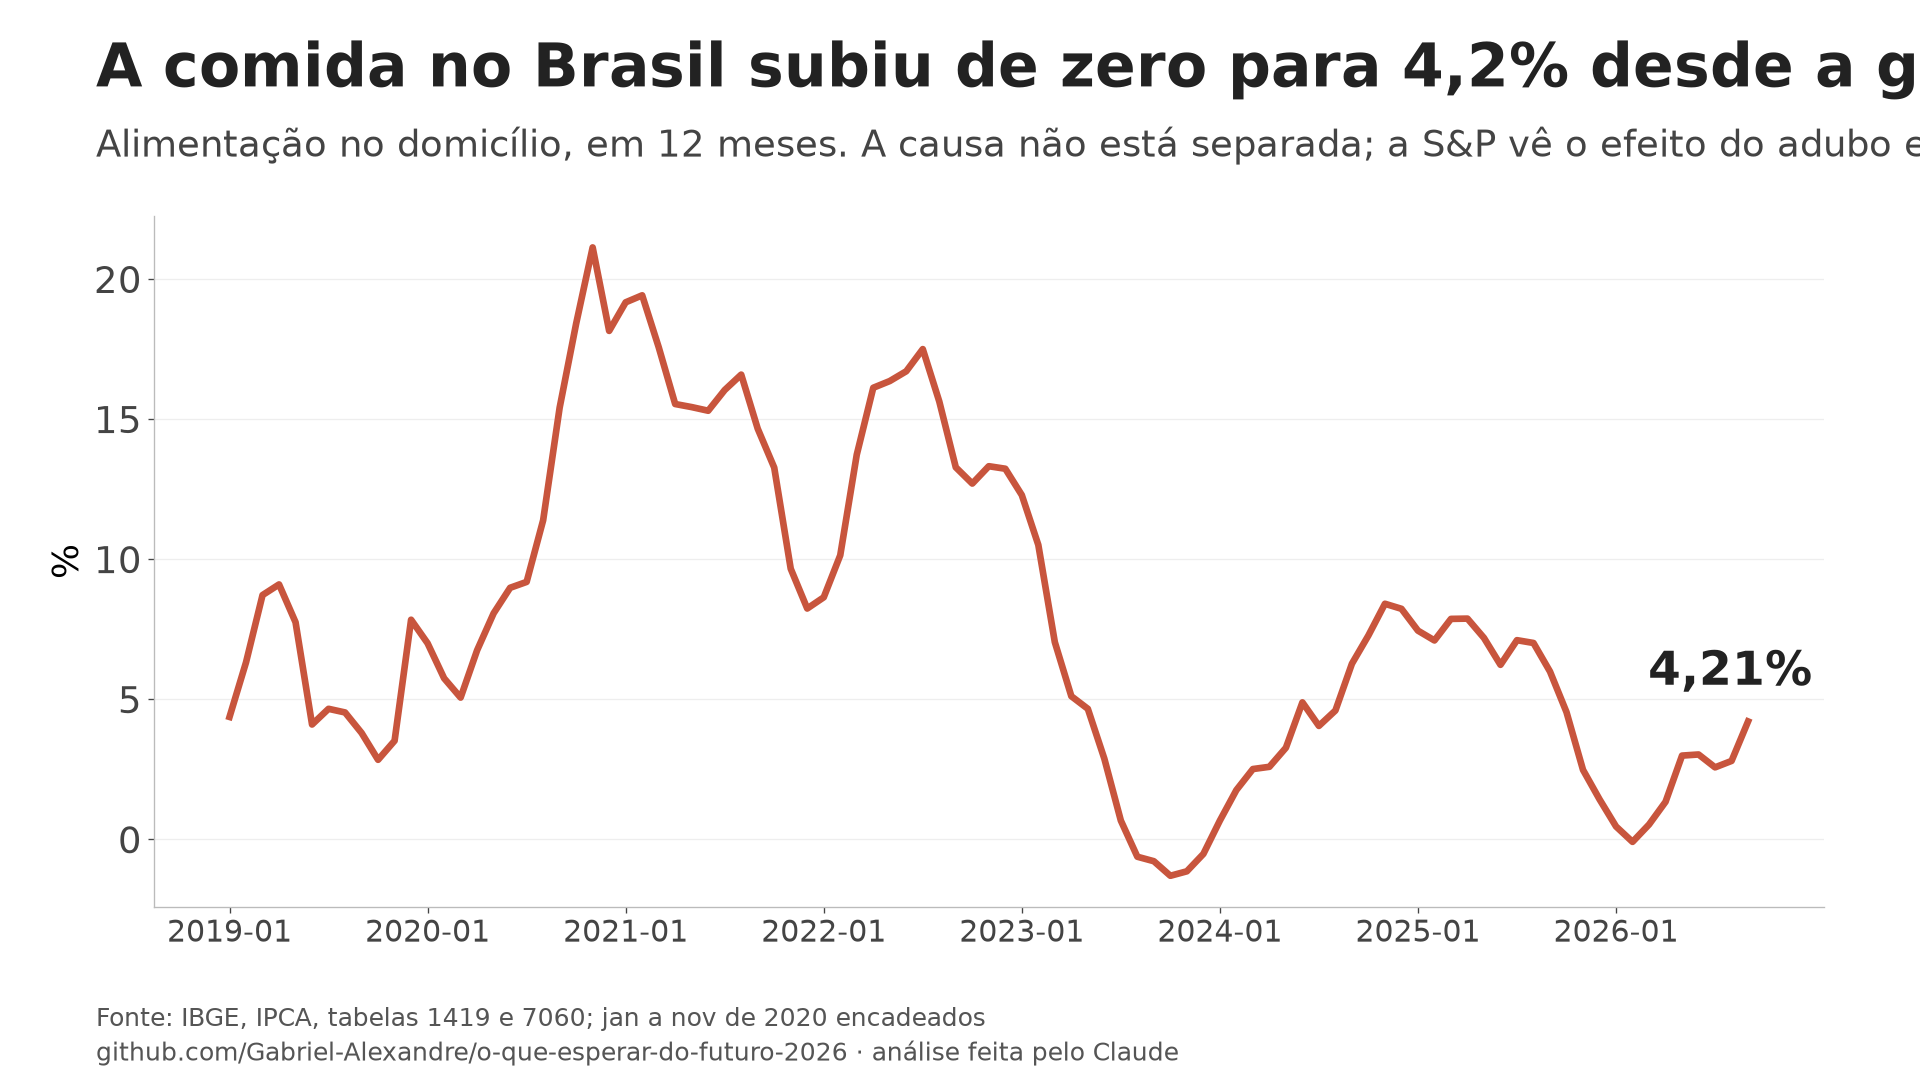
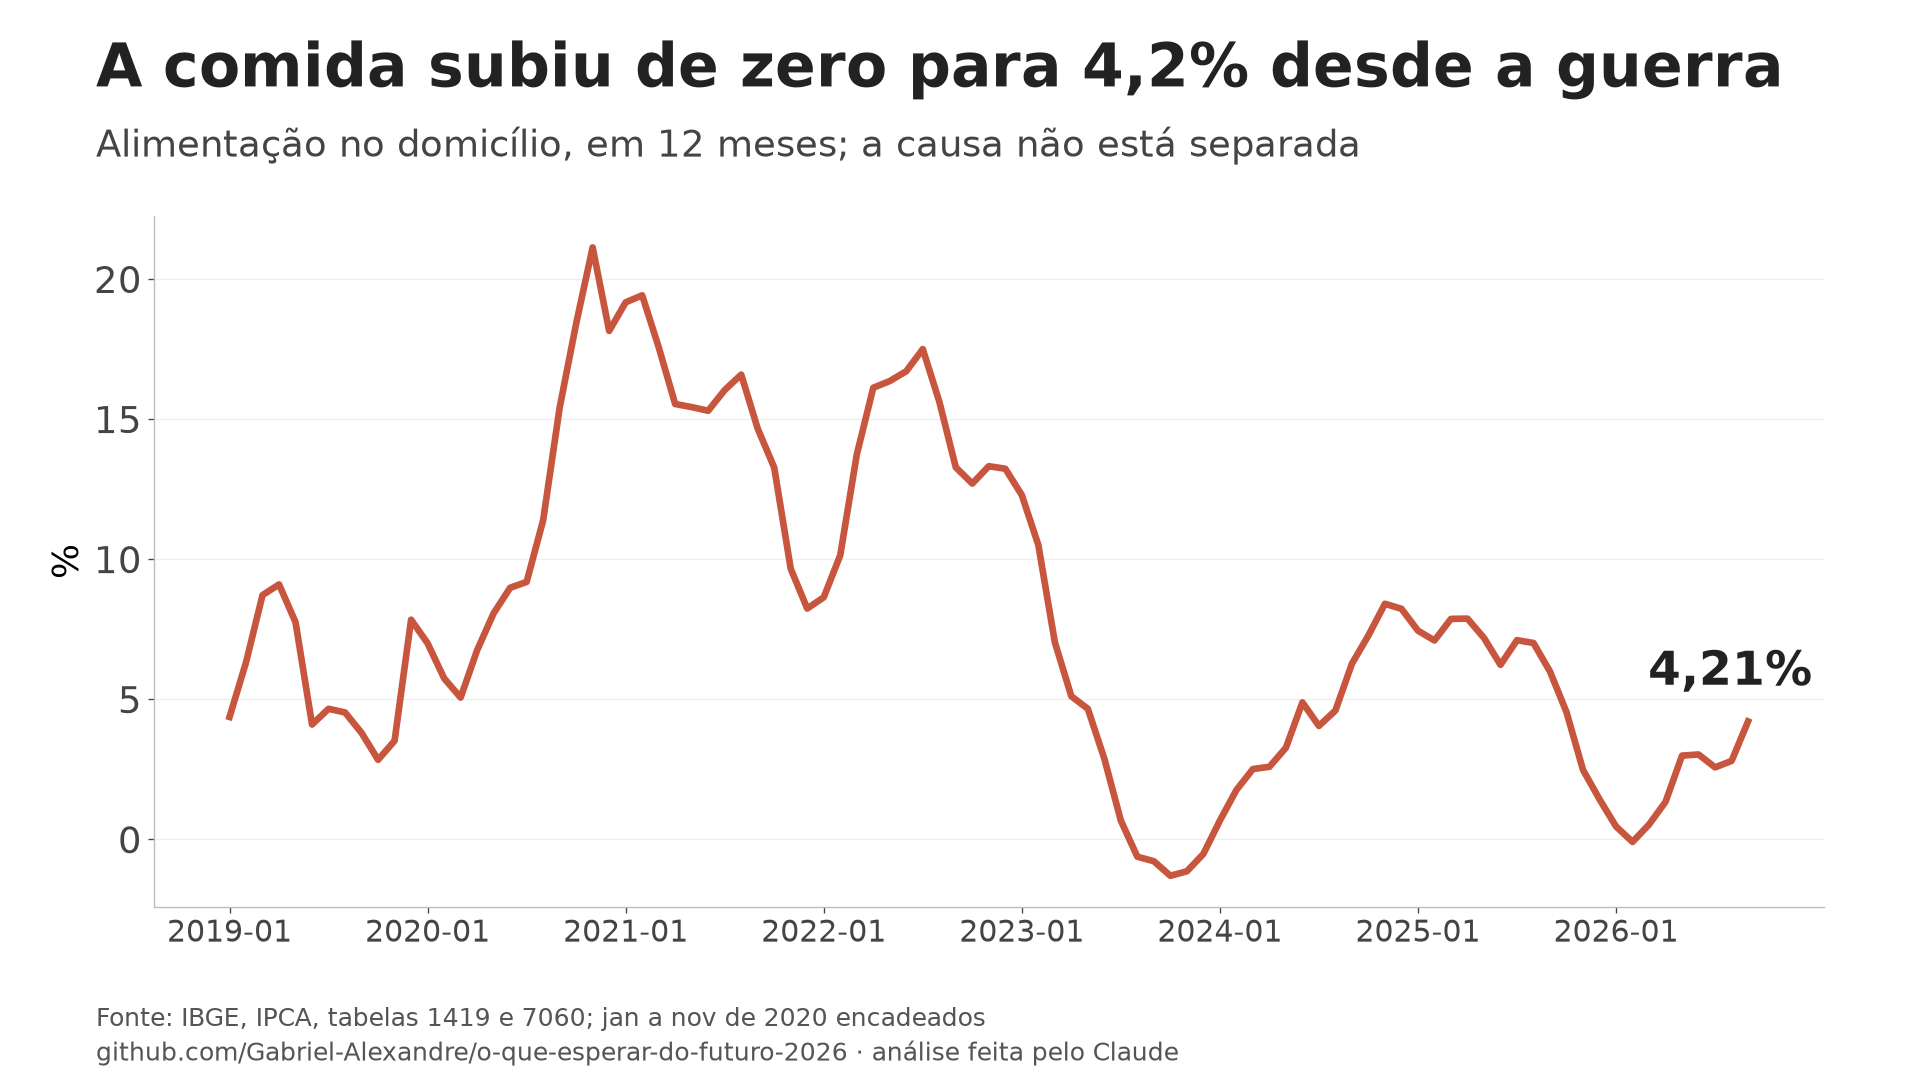
g08 e g10: título dentro da borda e o 41% na legenda
O título dos dois passava da borda direita da figura, e o rótulo dos 41%
da consultoria ficava por cima do 40% de 2024. Nenhum número mudou.

Changed region(s): [[0.2188, 0.0306, 1.0, 0.0917], [0.4375, 0.1222, 1.0, 0.1528]]

diff --git a/ferramentas/graficos.py b/ferramentas/graficos.py
@@ -153,17 +153,16 @@ def g07():
 def g08():
     r = pd.read_csv(DER / "brasil_fertilizantes_resumo.csv")
     u = r[r.recorte.str.contains("ureia", case=False) & (r.ano >= 2019)]
-    f, a = nova("O Brasil depende do Golfo? Depende de como se conta", "Ureia importada por origem. A base dá o país, não o porto; Omã tem fábrica fora do estreito", top=0.8)
+    f, a = nova("O Brasil depende do Golfo? Depende da conta", "Ureia importada por origem. A base dá o país, não o porto; Omã tem fábrica fora do estreito", top=0.8)
     anos = u.ano.astype(str).where(u.ano < 2026, "2026 parcial")
     a.bar(anos, u.fatia_dentro_do_golfo_pct, color=TIJOLO, label="dentro do Golfo", width=0.6)
     a.bar(anos, u.fatia_oma_pct, bottom=u.fatia_dentro_do_golfo_pct, color=OURO, label="Omã", width=0.6)
     for x, g, o in zip(anos, u.fatia_dentro_do_golfo_pct, u.fatia_oma_pct):
         a.text(x, g + o + 0.8, f"{g + o:.0f}%".replace(".", ","), ha="center", fontsize=22, color=TINTA, bbox=dict(fc="white", ec="none", pad=1), zorder=5)
-    a.axhline(41, color=TINTA, lw=2, ls="--")
-    a.text(7.4, 42, "41%: consultoria, pelo caminho do navio", fontsize=20, color=TINTA, ha="right")
+    a.axhline(41, color=TINTA, lw=2, ls="--", label="41%: consultoria, pelo caminho do navio")
     a.legend(frameon=False, fontsize=20, loc="upper right")
     a.set_ylabel("% das toneladas")
-    a.set_ylim(0, 60)
+    a.set_ylim(0, 72)
     salvar(f, "g08_ureia_golfo", "ComexStat/MDIC, 2026 de janeiro a setembro; conferido contra o Comtrade")
 
 
@@ -188,7 +187,7 @@ def g09():
 def g10():
     i = pd.read_csv(DER / "brasil_ipca_alimentos.csv")
     i = i[i.mes >= "2019-01"]
-    f, a = nova("A comida no Brasil subiu de zero para 4,2% desde a guerra", "Alimentação no domicílio, em 12 meses. A causa não está separada; a S&P vê o efeito do adubo em 2027", top=0.8)
+    f, a = nova("A comida subiu de zero para 4,2% desde a guerra", "Alimentação no domicílio, em 12 meses; a causa não está separada", top=0.8)
     y = i.alim_dom_12m_pct.fillna(i.alim_dom_12m_recalculado_pct)
     a.plot(i.mes, y, color=TIJOLO, lw=4)
     a.set_xticks(range(0, len(i), 12), i.mes[::12], fontsize=18)
